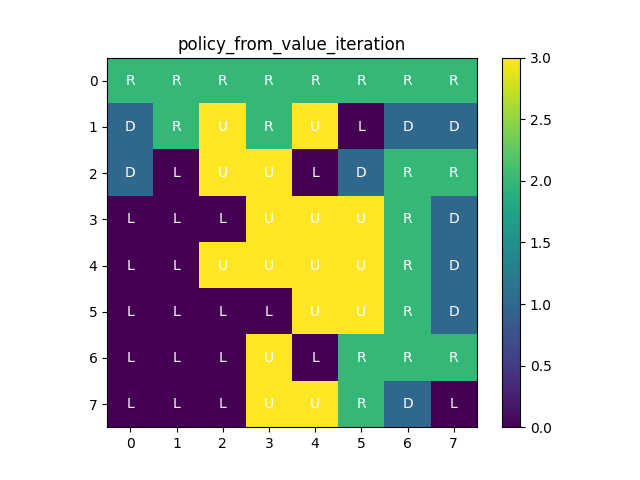
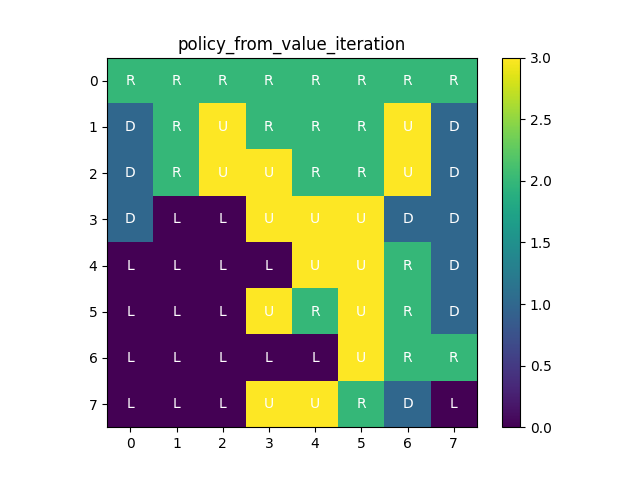
q3.2.2

Changed region(s): [[0.4375, 0.1875, 0.75, 0.5312], [0.3125, 0.5, 0.625, 0.8125], [0.1562, 0.3125, 0.3125, 0.5312]]

diff --git a/hw4/code/rl.py b/hw4/code/rl.py
@@ -142,48 +142,45 @@ def policy_iteration(env, gamma, max_iterations=int(1e3), tol=1e-3):
   A = env.nA
   S = env.nS
   P = env.P
-  n_iter = 0
-  policy_stable = False
   
-  def evaluate_policy(n_iter):
+  def updateV(V, s):
+    max_v = np.finfo(np.float32).min
+    
+    for a in range(A):
+      v = 0.0
+      # P[state][action] = (prob, state, reward, done)
+      transition = P[s][a]
+      for p, ns, r, done in transition:
+        v += p * (r + gamma * V[ns])   
+      max_v = np.maximum(max_v, v)
+
+    V[s] = max_v
+    return V
+
+  def evaluate_policy():
     V = np.random.rand(S)
+    n_iter_eval = 0
     delta = np.finfo(np.float32).max
-    while n_iter < max_iterations and delta > tol:
+    while n_iter_eval < max_iterations and delta > tol:
       delta = 0.0
       
       # loop over all states
       for s in range(S):
         v = V[s]
-        max_v = np.finfo(np.float32).min
-        
-        # loop over all actions 
-        for a in range(A):
-          vc = 0.0
-          
-          # P[state][action] = (prob, state, reward, done)
-          transition = P[s][a]
-          for p, ns, r, done in transition:
-            vc += p * (r + gamma * V[ns])   
-            
-          # find action that maximizes value 
-          max_v = np.maximum(max_v, vc)
-
-        V[s] = max_v
+        V = updateV(V, s)
         delta = np.maximum(delta, np.abs(v - V[s]))
-        n_iter += 1
-        
-        if n_iter % 10 == 0:
-          print(f"step: [{n_iter}/{max_iterations}]")
-          print(f"\t--delta: {delta}")
-                  
-    return V, n_iter
+      n_iter_eval += 1
+    
+    return V
   
   def improve_policy(V, policy):
     policy_stable = True
+    
     for s in range(S):
-      old_action = policy[s]
+      old_action = np.copy(policy[s])
+      
       max_v = np.finfo(np.float32).min
-      max_action = 0
+      max_action = old_action
       for a in range(A):
         v = 0.0
         # P[state][action] = (prob, state, reward, done)
@@ -191,19 +188,28 @@ def policy_iteration(env, gamma, max_iterations=int(1e3), tol=1e-3):
         for p, ns, r, done in transition:
           v += p * (r + gamma * V[ns]) 
         
-        max_action = a if max_v < v else max_action
+        if max_v < v:
+          max_v = v 
+          max_action = a
       
       policy[s] = max_action
-      if not policy[s] == old_action:
+      if policy[s] == old_action:
         policy_stable = False 
         
     return policy, policy_stable
-
-  policy = np.zeros(shape=(S, 1), dtype=np.int)
   
+  
+  policy = np.random.randint(0, 4, (S, 1))
+  policy_stable = False
+  n_iter = 0
   while not policy_stable and n_iter < max_iterations:
-    V, n_iter = evaluate_policy(n_iter)
-    ppolicy, policy_stable = improve_policy(V, policy)
+    if n_iter % 50 == 0:
+      print(f"** step: [{n_iter}/{max_iterations}]")
+      
+    V = evaluate_policy()
+    policy, policy_stable = improve_policy(V, policy)
+    
+    n_iter += 1
     
   return V, n_iter
 
@@ -308,7 +314,17 @@ if __name__ == "__main__":
   # Q3.2.2: BONUS
   print(f"\n** q3.2.2 policy iteration")
   V_pi, n_iter = policy_iteration(env, gamma)
-  print(f"policy iteration converged after {n_iter} steps")
+  plot(V_pi.reshape(gw, gh), 
+       title='policy_iteration')
+  policy = policy_from_value_function(env, V_pi, gamma)
+  plot(policy.reshape(gw, gh), 
+       title='policy_from_policy_iteration', 
+       text=action_names)
+  
+  # print(f"policy iteration converged after {n_iter} steps")
+  # plot(policy.reshape(gw, gh), 
+  #      title='policy_from_value_iteration', 
+  #      text=action_names)
 
   # Q3.2.3
   # V_td = td_zero(env, gamma, policy, alpha)
